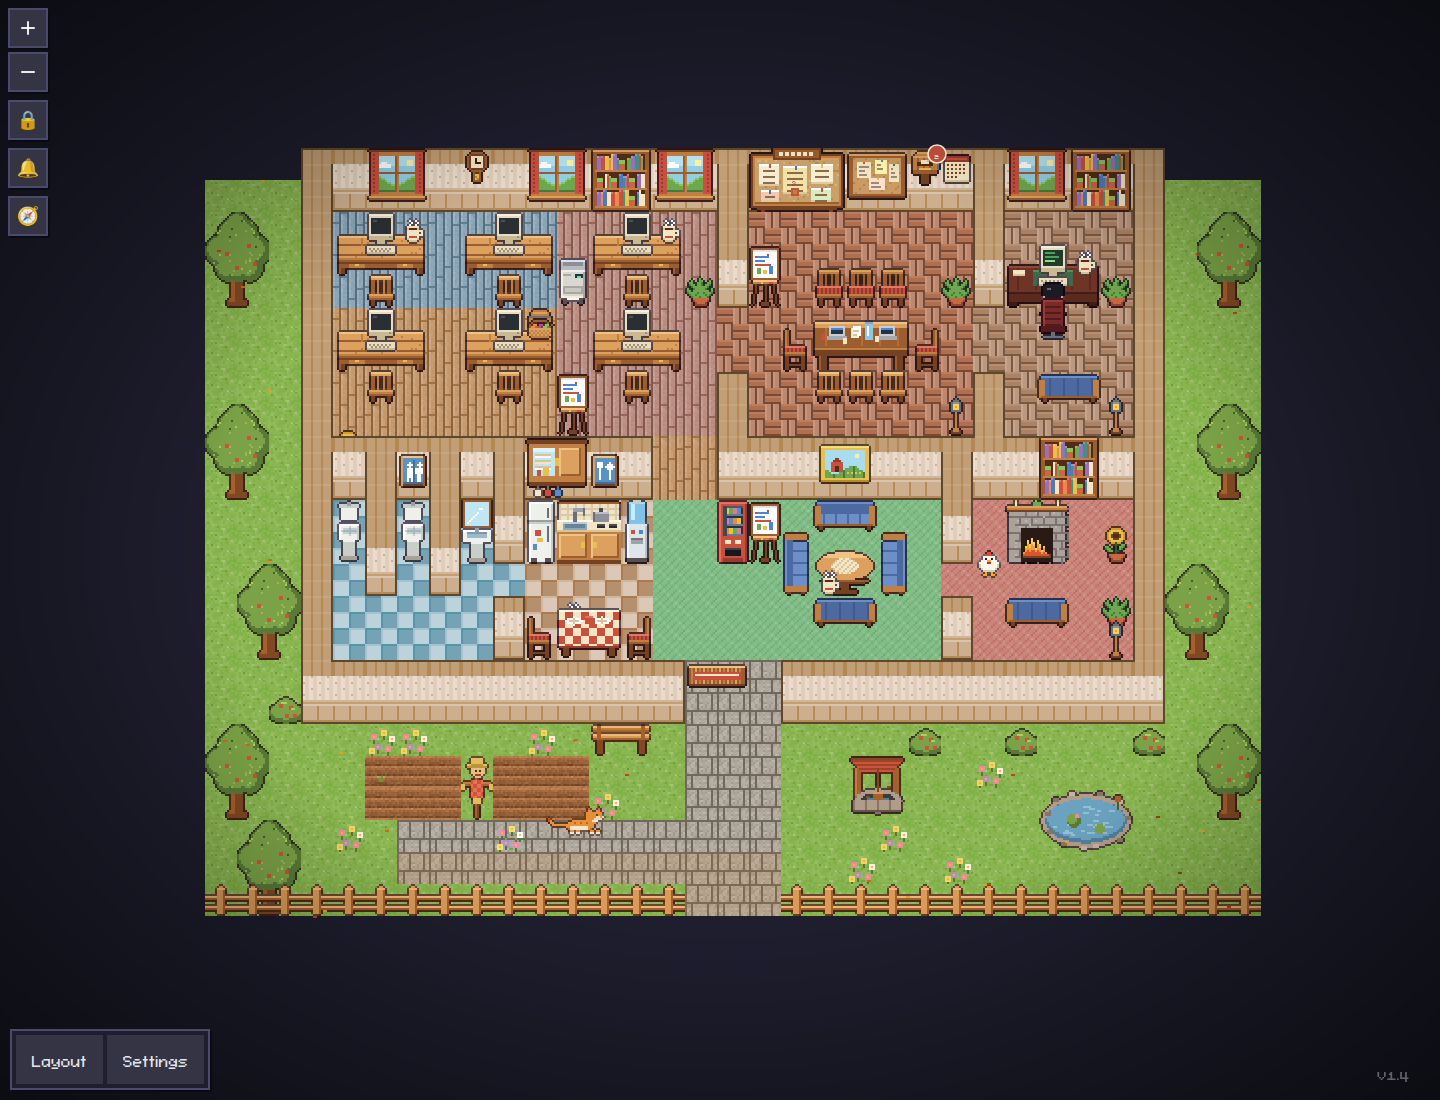
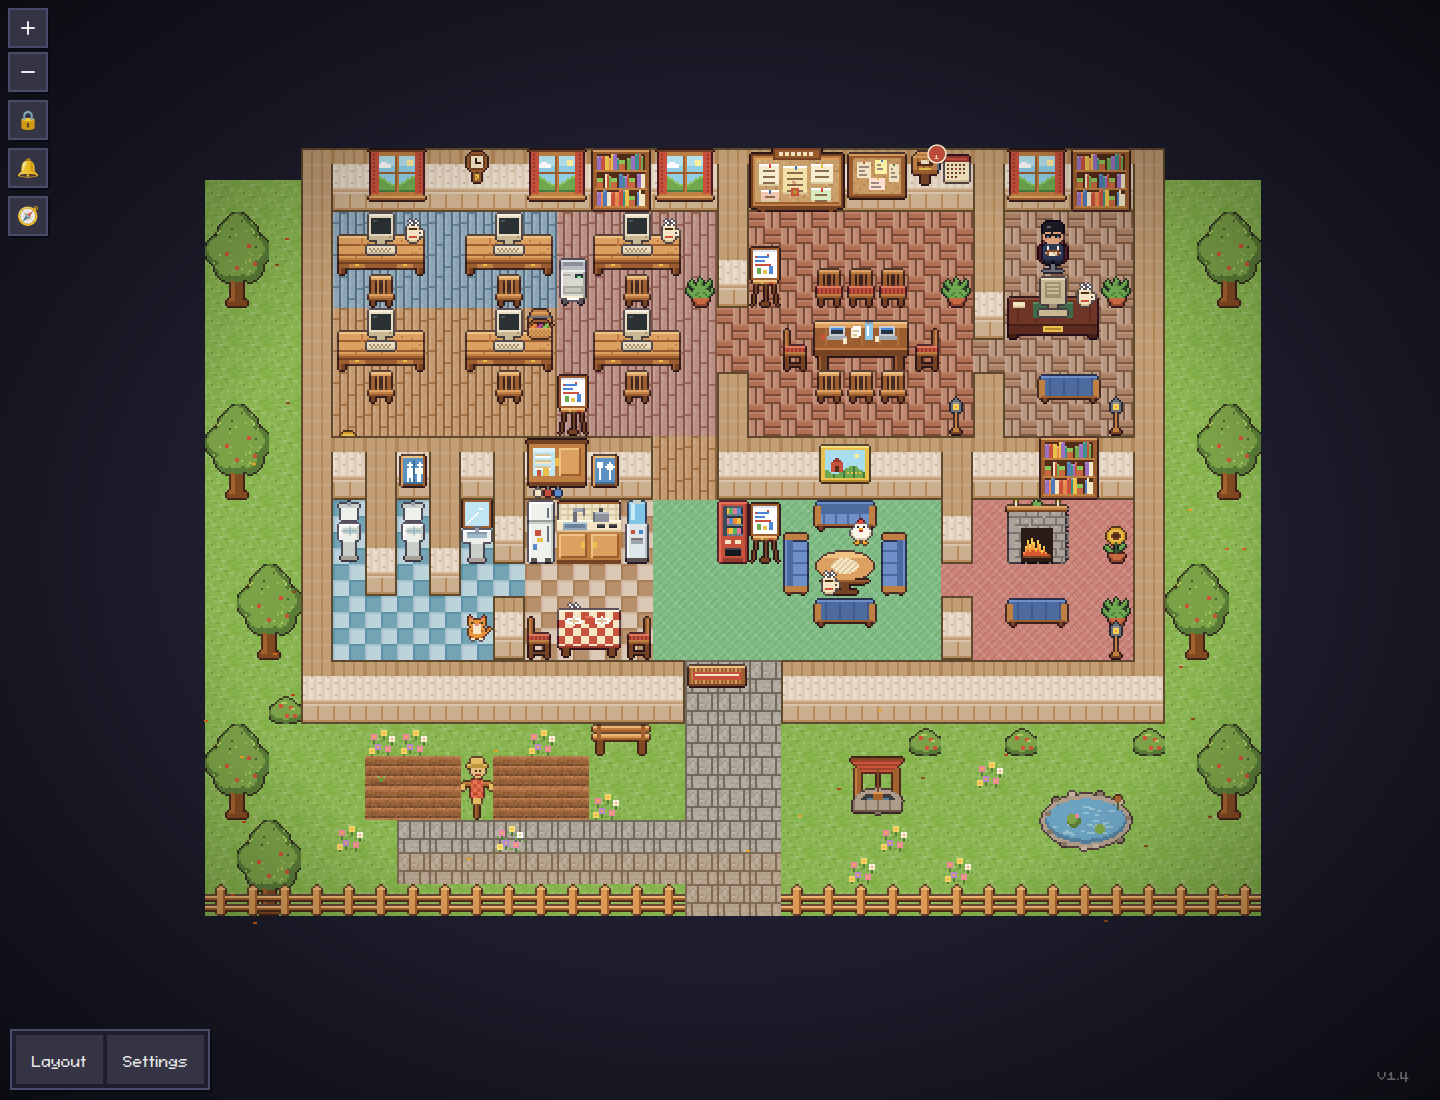
Director's desk faces south: Shades sits behind it looking into the room
Claude-Session: https://claude.ai/code/session_011R69wHbWAKKzePNQfQfMU3

diff --git a/README.md b/README.md
@@ -24,7 +24,7 @@ sunflowers, an orange office cat and a hen). No sprites are taken from Stardew V
 | `overlay/` | Stardew floors (9 textures), wallpaper/wainscot walls, and villagers 1–6 (Asa, Rowan, Clem, Theo, Mabel, Juno) in place of the bundled characters, for the parts `pixel-agents` only loads from its own bundle. |
 | `addon/` | Browser add-ons for the office: [idle chat](#idle-chat), [idle activities and expressions](#idle-activities-and-expressions), a [villager card, clickable calendar and Holo-board](#villager-card-calendar-and-holo-board), a [camera lock, notifications, task board and day & night](#camera-lock-notifications-task-board-and-day--night), and a [Pomodoro timer](#pomodoro) on the wall clock. |
 | `staff/` | The [office staff](#office-staff) (also the [mailbox](#mailbox-send-tasks-from-the-office)'s task runners): six Claude Code subagents with job descriptions (`staff/agents/*.md`), each played by a villager (`staff/roster.json`). Install with `npm run staff`. |
-| `layouts/stardew-office.json` | A ready-made 33×24 landscape office with a garden around it. Top band: an **open-plan work area** with six desks in three divisions that share one room and are told apart only by floor tint and furniture (no walls), a **meeting room** (one long table, only for meetings, with the quest board, task board, mailbox and calendar on its wall) and the **director's room** (Shades' desk, a private corner and a big window). Bottom band: a compact toilet and pantry, the breakout corner (green sofas round the tea table, whiteboard) with the front door, and a guest lounge with the fireplace. Outside: a stone path, vegetable beds, a well, a pond, trees and a fence. Windows are only on the outer walls. Import it via **Layout → Import**, or `npm run layout`. |
+| `layouts/stardew-office.json` | A ready-made 33×24 landscape office with a garden around it. Top band: an **open-plan work area** with six desks in three divisions that share one room and are told apart only by floor tint and furniture (no walls), a **meeting room** (one long table, only for meetings, with the quest board, task board, mailbox and calendar on its wall) and the **director's room** (Shades' desk (he faces into the room), a private corner and a big window). Bottom band: a compact toilet and pantry, the breakout corner (green sofas round the tea table, whiteboard) with the front door, and a guest lounge with the fireplace. Outside: a stone path, vegetable beds, a well, a pond, trees and a fence. Windows are only on the outer walls. Import it via **Layout → Import**, or `npm run layout`. |
 | `tools/` | The sprite generator (`npm run generate`), plus setup, launcher, and tunnel scripts. |
 
 ## Quick start
